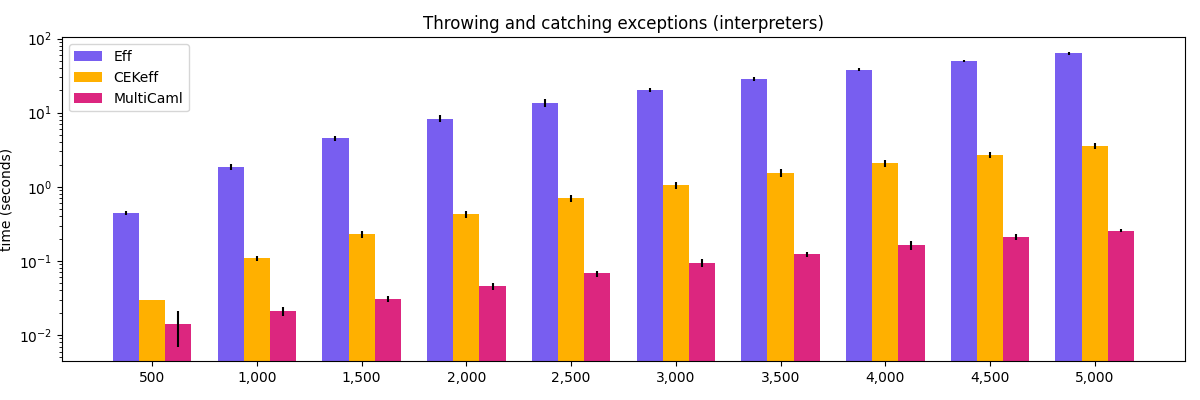
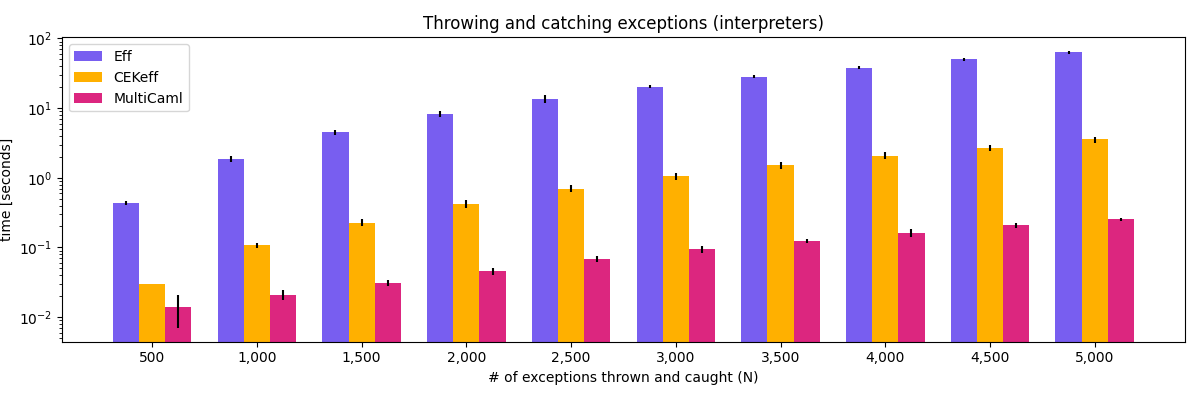
Address John's feedback

diff --git a/sections/conclusion.tex b/sections/conclusion.tex
@@ -1,6 +1,7 @@
 \documentclass[class=article, crop=false]{standalone}
 \usepackage[utf8]{inputenc}
 \usepackage{hyperref}
+\usepackage{comment}
 
 \usepackage[margin=1in]{geometry}
 
@@ -10,24 +11,33 @@ The project was a success. My success criterion was to implement a
 syntax-level interpreter for Eff, to design a low-level byte code for Eff,
 to implement a compiler which can transform Eff programs into a linearised
 representation and finally to implement a virtual machine which is capable of
-interpreting that byte code. Furthermore, the above components had to be
+interpreting the designed byte code. Furthermore, the above components had to be
 reasonably efficient when compared to existing solutions.
 
 The work described above was carried out and all components were successfully
-implemented. The Evaluation chapter justifies the success of the project.
-Both my CEK interpreter and my SHADE VM outperformed Eff on various
+implemented. Both my CEK interpreter and my SHADE VM outperformed Eff on various
 benchmarks and the performance of SHADE VM was often comparable to that of
 Multicore OCaml.
 
-\section{Travel Diary}
+\paragraph{Travel Diary}
 
 This dissertation is actually a story about a journey
 which starts in the theoretical valleys of Mathematics, leads through the more
 practical (but still quite theoretical) areas of Computer Science and finally
 ends in the realms of practical Systems Programming.
 
-% motivated by ...
-% requires side effects, effects, Eff, designed, compiled, VM, returning 
+This work was partly motivated by the desire to explore how algebraic effect
+handlers could be used in systems programming. The use of algebraic effect
+handlers is appealing as they provide a convenient abstraction for the handling
+of side effects functionally. However, efficient runtime systems often work
+with low-level bytecodes rather than with syntax-level representations of
+programs. Designing appropriate bytecodes and ways to realise algebraic effect
+handlers closer to the hardware is necessary if we are ever
+going to use them in the real world. To show a real world appliaction
+I exhibited a simple concurrent system (a toy webserver) which was executed
+in the runtime system I designed. 
+
+\begin{comment}
 In the Implementation chapter an implementation of a higher level CEK evaluator
 (interpreting source terms) was described along with its abstract machine
 semantics. Furthermore, the SECD-like SHADE VM is derived for Eff as well as
@@ -42,9 +52,11 @@ Eff interpreter. We found that the SHADE VM is reasonably efficient even without
 implementing any optimisations. It was also shown how algebraic effects and
 their handlers could be used for systems programming by exhibiting a toy web
 server implementation in Eff.
+\end{comment}
 
 \section{Further work}
 
+\paragraph{Optimisations.}
 The fact that there are algebraic theories behind algebraic effects and their
 handlers allows us to prove certain compiler transformations correct by
 equational reasoning. This gives us the opportunity to take a set of effect
@@ -53,22 +65,40 @@ equations (for instance, the equation $\mathtt{assign}(x,y); \mathtt{assign}(x,z
 away) and generate new optimisations (perhaps entirely new ones no-one has
 thought about yet or ones that are dependent on the semantics of some effects).
 
-Type and effect systems \cite{bauer2013effect} allow for even more optimisations
+\paragraph{Type and effect systems}
+\cite{bauer2013effect} allow for even more optimisations
 and the opportunity to parallelise independent parts of programs. As hardware is
 getting increasingly parallel such optimisations can help us to get the most out
 of our multicore machines.
 
-My implementation was concerned with only the core features of Eff. There would
-be countless ways to improve the compiler or the virtual machine. One of the
-most interesting improvements would be to design a custom garbage collector for
-Eff which might be another Part II project. The rules of SHADE VM are simple
-enough that a byte code interpreter for SHADEcode should not be too hard to
-implement in a low-level language such as C.
-
+\paragraph{Open source.}
 The project is packaged up as an OPAM package and I intend to make it available
 on Github for other programming language enthusiasts.
 
-% FURTHER WORK ON SYSTEMS PROGRAMMING
+\paragraph{Part II project.}
+My implementation was concerned with only the core
+features of Eff. There would be countless ways to improve the compiler or the
+virtual machine. The rules of SHADE VM are simple enough that a byte code interpreter
+for SHADEcode should not be too hard to implement in a low-level language such as C.
+However, this would have to involve designing a custom garbage collector for SHADE
+which might prove interesting.
+
+\paragraph{Masters or PhD.}
+As the size of continuations is not too big it might make sense to think about
+these control operators in the context of distributed systems too.
+For instance, imagine the following situation where the communication overhead
+lost in the network might be reduced.
+
+Alice and Bob are communicating. Alice sends a message $M_1$ to Bob and Bob
+replies with $M_2$. Based on the contents of $M_2$ Alice performs some kind of
+computation $c$ and replies with $M_3$. If $c$ can be realised as a continuation
+resumed with $M_2$ as its argument and given that shadows/continuations can be
+serialised using a convenient byte code representation, would it make sense to
+\emph{package up a decision as a continuation} and attach it to the original
+message $M_1$? This would get rid of the need of exchanging $M_2$ and $M_3$
+over the network as Bob could resume the continuation using $M_1$ and obtain
+the result \emph{locally}.
+
 
 \section{Self-reflection}
 

diff --git a/sections/evaluation.tex b/sections/evaluation.tex
@@ -54,8 +54,6 @@ identifier of the OPAM switch was \verb|4.06.1+multicore|.
 
 \section{Exceptions}
 
-% TODO: what is n?
-
 The exception benchmark raises and catches exception-like effects (the
 continuation is never resumed). I must add that in the OCaml benchmark I used
 effects simulating exceptions rather than \emph{actual} OCaml exceptions. Actual
@@ -95,8 +93,8 @@ interpreter. For SHADE VM the same takes around 200 milliseconds
 (with compilation included), which is a 300-fold improvement!
 
 The $y$-axis is logarithmic and the plots show a linear slowdown when we
-increase the number of exceptions linearly. This suggests an $\mathcal{O}(n)$
-time complexity for performing and catching $n$ exceptions which suggests that
+increase the number of exceptions linearly. This suggests an $\mathcal{O}(N)$
+time complexity for performing and catching $N$ exceptions which suggests that
 my implementation does not contain bugs or inefficiencies that accumulate
 as more effects are performed in a program.
 
@@ -111,7 +109,6 @@ of performed effects $N$ increases we can be confident that the cost of
 performing effects and resuming continuations will dominate the execution time
 and that we are measuring what we want.
 
-% TODO: REPLOT PLOTS
 \begin{figure}
     \centering
     \includegraphics[width=35em]{eval_plots/interp_state.png}
@@ -211,10 +208,10 @@ it is an obvious outlier.
 
 \section{Concurrency -- Hello Online World!}
 
-% TODO: say what a green thread is
-
 Cooperative multitasking can be implemented with algebraic effects and their
-handlers too. We can realise \emph{green threads} as $\unitType \to \unitType$
+handlers too. We can realise \emph{green threads}\footnote{Green threads are
+lightweight user space threads usually scheduled by runtime systems rather
+than the operating system.} as $\unitType \to \unitType$
 functions which can be \lstinline|Spawn|ed and which are capable
 of \lstinline|Yield|ing control. The reader might correctly suspect that
 these operations will correspond to algebraic effects with the following types:

diff --git a/main.tex b/main.tex
@@ -12,10 +12,12 @@
 \usepackage[english]{babel}
 \usepackage{listings}
 \usepackage[toc,page]{appendix}
-%\usepackage{booktabs}
 \usepackage{tikz}
 \usepackage[absolute,overlay]{textpos}
 \usepackage{etoolbox}
+\usepackage{pdfpages}
+
+
 \makeatletter
 % \patchcmd{<cmd>}{<search>}{<replace>}{<success>}{<failure>}
 % --- Patch \chapter
@@ -101,8 +103,7 @@ or minimising the copy overhead from the use of continuations.
 
 \paragraph{Work completed}
 
-% TODO: DONT MENTION CEK... you mean syntax level interpreter here
-A CEK machine interpreting Eff was implemented. A byte code for Eff (SHADEcode)
+A syntax-level Eff interpreter was implemented. A byte code for Eff (SHADEcode)
 was designed. A compiler from Eff to SHADEcode was implemented as well as a
 virtual machine (SHADE) interpreting SHADEcode. As far as I know, SHADE and
 SHADEcode are the first virtual machine and byte code designed
@@ -221,8 +222,7 @@ None.
 \chapter{Project Proposal}
 \setcounter{page}{1}
 The project proposal starts on the next page.
-% TODO: proposal include here
-%\includepdf[pages=-]{sections/proposal.pdf}
+\includepdf[pages=-]{sections/proposal.pdf}
 
 \end{appendices}
 
